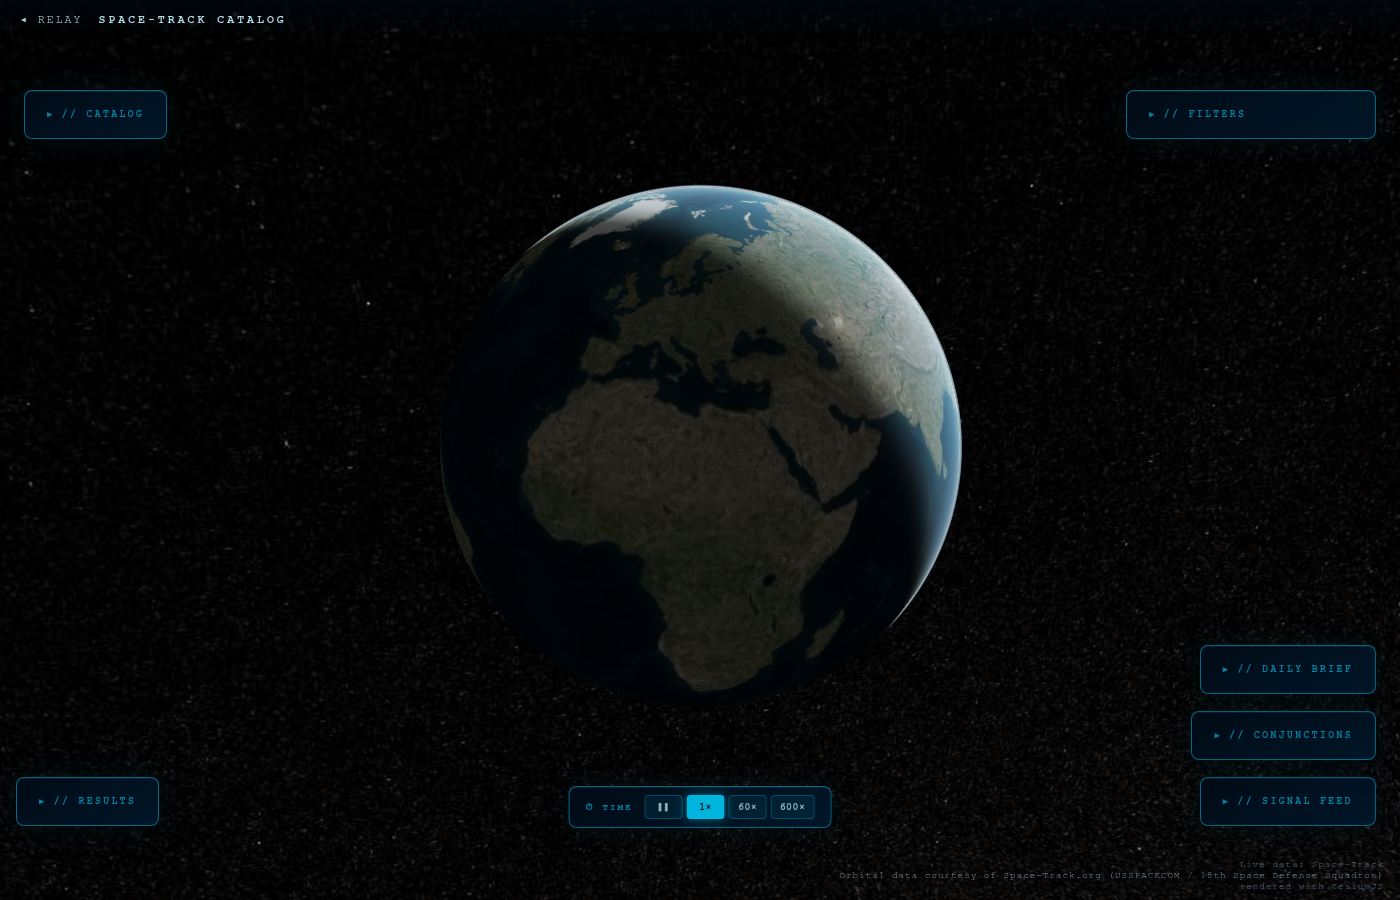
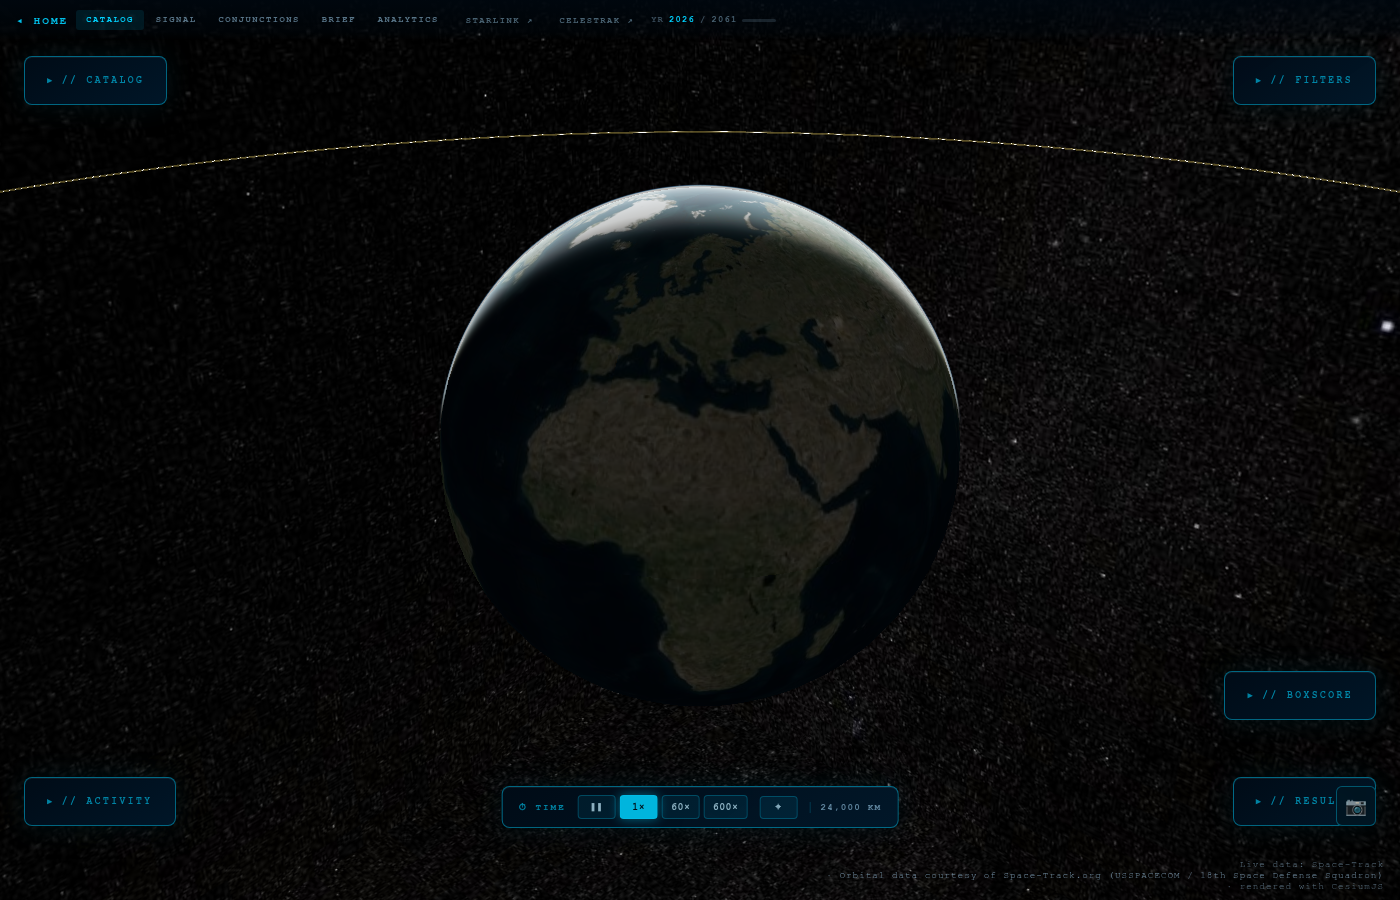
docs: fill in S10 commit hash in session handoff

diff --git a/docs/session-handoff.md b/docs/session-handoff.md
@@ -141,7 +141,7 @@
       renders black in this sandbox (Cesium Ion 403 — pre-existing, unrelated to this
       change, see "Load-bearing details" / env-quirks memory), so ring color/rendering
       was not eyeballed — only DOM/console behavior was verified headless.
-- [x] **S10 VFX CSS** (commit TBD): `.vfx-overlay`/`.noise-layer` styled in
+- [x] **S10 VFX CSS** (commit `63fc6813`): `.vfx-overlay`/`.noise-layer` styled in
       `/css/chrome.css` (covers /orbit/, /spacetrack/ + its 4 sub-pages, all of
       which already link chrome.css) and duplicated into
       `public/starlink/starlink.css` (the one page that doesn't link
